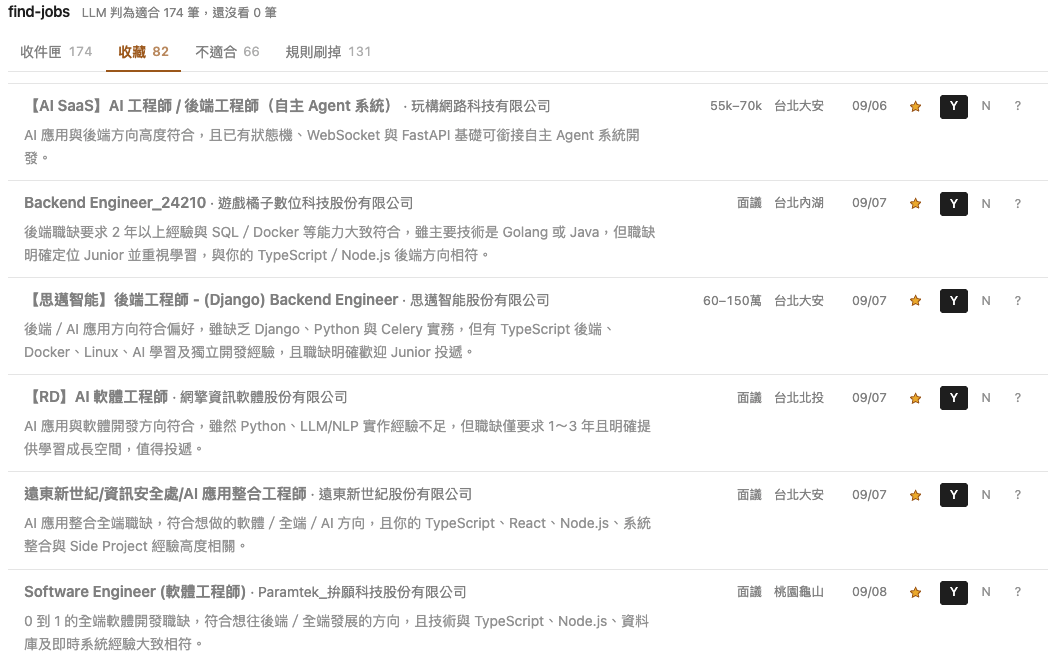
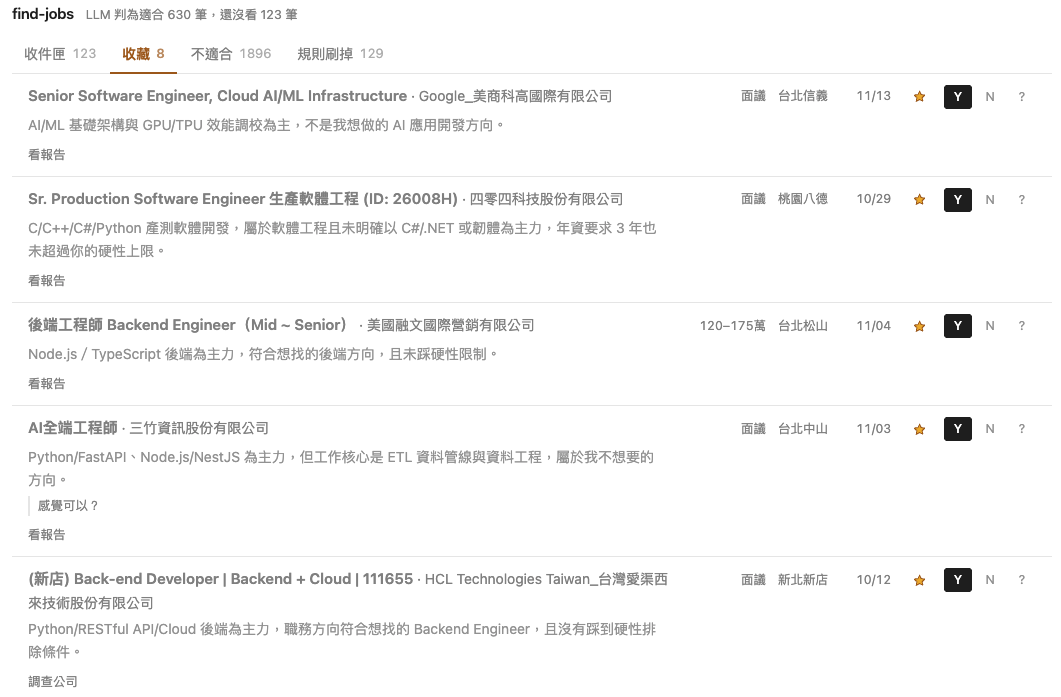
chore: update the README and add the company research agent (#31)
## Summary

README 跟現在的流程對齊，另外加上公司調查 agent 的段落。

```diff
 # find-jobs
-個人使用的小工具：…分成不同的 tab 顯示職缺
+個人使用的小工具：…分成不同的 tab 顯示職缺。有興趣的職缺可以按一下「調查公司」按鈕，讓 agent 上網調查這家公司。
 ## 流程
-  db -. 挑題 .-> exam[固定考卷約 70 題]
+  db -->|關鍵字都跑完| prune["清掉已下架 …"]
+  db -. 挑題 .-> exam[固定考卷 100 題]
-## Eval
+## 職缺判斷的 Eval
-目前約 70 筆固定職缺 …
+目前 100 筆固定職缺 …
-（改 prompt 前後的分數表）
+## 公司調查
+  流程圖（research() 的 loop、submit_report 檢查、上限）
+  ### 調查項目
+  ### Eval（只寫方法，不寫結果）
 ## Tech Stack（移到最後）
-…｜OpenAI Responses API
+…｜OpenAI Responses API｜Tavily
-## 幾個設計決定
```

- 刪掉的分數表是舊的 73 題考卷跑的，跟現在 100 題的考卷不能比。
- 設計決定那段刪掉，「擴充考卷讀 DB」那句本來就不對。
- 介面截圖換新的。
- 流程圖上的「4 關鍵字」還沒改（實際是 3 個），之後再處理。

## Evidence

只有文件，沒有 code 變更。內容對照過
`run_daily.sh`、`prune_closed.py`、`company_research/research.py`、`research_items.py`。兩張
Mermaid 圖在本機沒渲染過，要在 GitHub 上看一下。

## Merge Danger

**Door:** two-way

**Blast Radius:** none

---------

diff --git a/README.md b/README.md
@@ -1,8 +1,6 @@
 # find-jobs
 
-個人使用的小工具：每天自動根據特定關鍵字抓 104 職缺，用 LLM 依我的 profile 判斷適不適合投，結果存進 Postgres，前端根據判斷的結果分成不同的 tab 顯示職缺
-
-## 介面
+個人使用的小工具：每天自動根據特定關鍵字抓 104 職缺，用 LLM 依我的 profile 判斷適不適合投，結果存進 Postgres，前端根據判斷的結果分成不同的 tab 顯示職缺。有興趣的職缺可以按一下「調查公司」按鈕，讓 agent 上網調查這家公司。
 
 ![介面](docs/image.png)
 
@@ -21,37 +19,68 @@ flowchart TB
   detail --> llm["LLM judge<br/>rules + profile + JD<br/>→ fit / reason"]
   llm --> db[("Postgres<br/>raw JSON, fit, reason<br/>prompt/profile hash, model")]
   rej --> db
+  db -->|關鍵字都跑完| prune["清掉已下架<br/>收件匣重抓 104 detail, 下架的刪掉<br/>標過 / 收藏的不動"]
+  prune -->|刪除| db
   db --> api[FastAPI] --> ui["前端 4 tabs<br/>收件匣 / 收藏 / 不適合 / 規則刷掉"]
   ui -->|human_label + 理由| db
-  db -. 挑題 .-> exam[固定考卷約 70 題]
+  db -. 挑題 .-> exam[固定考卷 100 題]
   exam -. 離線跑同一套 judge, 不寫 DB .-> eval["eval: accuracy / precision / recall"]
   eval -. 新版 OK, 手動跑 .-> rejudge["rejudge.py<br/>讀 raw_detail 重判還沒標的, 不打 104 API"] -.-> db
 ```
 
-## Tech Stack
+## 職缺判斷的 Eval
 
-Python｜FastAPI + psycopg｜Postgres 18  
-React + TypeScript + Tailwind｜OpenAI Responses API
-
-跑在自己的 VPS：Docker Postgres、cron、systemd + nginx basic auth + TLS
-
-## Eval
-
-目前約 70 筆固定職缺 ＋ 我標註的答案，存成 `dataset.jsonl` 用 git 管，每一版 prompt 都跑同一份
+目前 100 筆固定職缺 ＋ 我標註的答案，存成 `dataset.jsonl` 用 git 管，每一版 prompt 都跑同一份。
 
 每次跑 `eval.py` 的結果附一行到 `history.tsv`，記下 prompt / profile / dataset 的內容 hash 和 model 名稱，分數才知道能不能互相比。
 
-原本的 prompt 幾乎不會漏（recall 1.00），但判適合的有一半不適合。做法是把「LLM 判適合、
-我標不適合」的職缺撈出來歸類，把共同點寫回 rules / profile 。recall 掉一點，precision 提高不少。
+## 公司調查
 
-| 同一份考卷   | accuracy | precision | recall |
-| ------------ | -------- | --------- | ------ |
-| 改 prompt 前 | 0.62     | 0.54      | 1.00   |
-| 改 prompt 後 | 0.9      | 0.9       | 0.88   |
+前端每筆職缺有一顆「調查公司」按鈕。按下去之後，agent 會在背景上網查這家公司，整理成一份調查報告存進 DB。同一家公司的職缺共用同一份報告，報告底下可以重新調查。
 
-## 幾個設計決定
+tool-calling loop 是自己寫的，沒有用 agent 框架。
 
-- **每筆職缺都存 `prompt_sha256` / `profile_sha256` / `model`。** 任何一筆都查得出是哪個版本判的，
-  也是重判時「跳過已經用當前版本判過的」的依據 —— 中途斷掉重跑不會重複花錢。
-- **便宜的過濾放前面。** search API 帶 `jobcat` + 職稱/公司黑名單 regex，減少送進 LLM 的量。
-- **JD 原始 JSON 整份存成 JSONB。** 職缺可能會下架，重判和擴充考卷都直接讀 DB。
+```mermaid
+flowchart TB
+  btn["點擊「調查公司」按鈕"] --> known["find-jobs 抓 104 公司簡介<br/>當成已知資料"]
+  known --> start
+  subgraph mod["company_research 模組（不認識 find-jobs）"]
+    start["research()<br/>公司全名 + 調查項目 + 已知資料"] --> llm{LLM 決定下一步}
+    llm -->|search| search["Tavily 搜尋<br/>可以限定網站"] --> llm
+    llm -->|read_page| read["Tavily 讀網頁全文"] --> llm
+    llm -->|submit_report| check{"code 檢查報告<br/>每個項目都要答、查到的要附來源、來源網址要是這次看過的"}
+    check -->|沒過, 退回原因| llm
+    llm -->|到 20 次上限| salvage["通過檢查的項目留著<br/>其他改成查不到"]
+  end
+  style mod fill:none,stroke:#888,stroke-dasharray:5 5
+  check -->|通過| db[("Postgres<br/>以公司為單位存報告")]
+  salvage --> db
+```
+
+搜尋和讀網頁合計最多 15 次，用完之後只剩 `submit_report` 可以呼叫，避免模型一路查到上限都沒交報告。
+
+### 調查項目
+
+| 項目     | 查什麼                   | 合格標準重點                           |
+| -------- | ------------------------ | -------------------------------------- |
+| 在做什麼 | 賣什麼、賣給誰、怎麼賺錢 | 外行人看得懂的白話，固定三行，150 字內 |
+| 近期動向 | 看得出營運狀況的消息     | 去年 1/1 以後，最多 3 則，附日期       |
+| 員工評價 | PTT 上員工、面試者怎麼說 | 三年前 1/1 以後的文章，要讀全文        |
+
+調查項目和合格標準寫在 find-jobs 這邊（`research_items.py`），起始日每次調查時才算。前端按鈕和 CLI（`research_company.py`）用同一份。
+
+### Eval
+
+公司資料會變，沒有固定的標準答案，所以用我的判斷當標準：
+
+1. 挑 5 家不同類型的公司：大公司、小新創、品牌名跟公司全名不同、子公司、名稱特殊
+2. 用 `research_company.py --company-url … --trace` 跑，查的跟前端按鈕一樣，整個調查過程（每次工具呼叫和回應）存成 trace
+3. 每家的每個項目打 pass / fail，加一句理由
+4. fail 的回去讀 trace 找原因（例如搜到範圍內的文章卻沒讀全文），改合格標準後重跑同一批
+
+## Tech Stack
+
+Python｜FastAPI + psycopg｜Postgres 18  
+React + TypeScript + Tailwind｜OpenAI Responses API｜Tavily
+
+跑在自己的 VPS：Docker Postgres、cron、systemd + nginx basic auth + TLS
